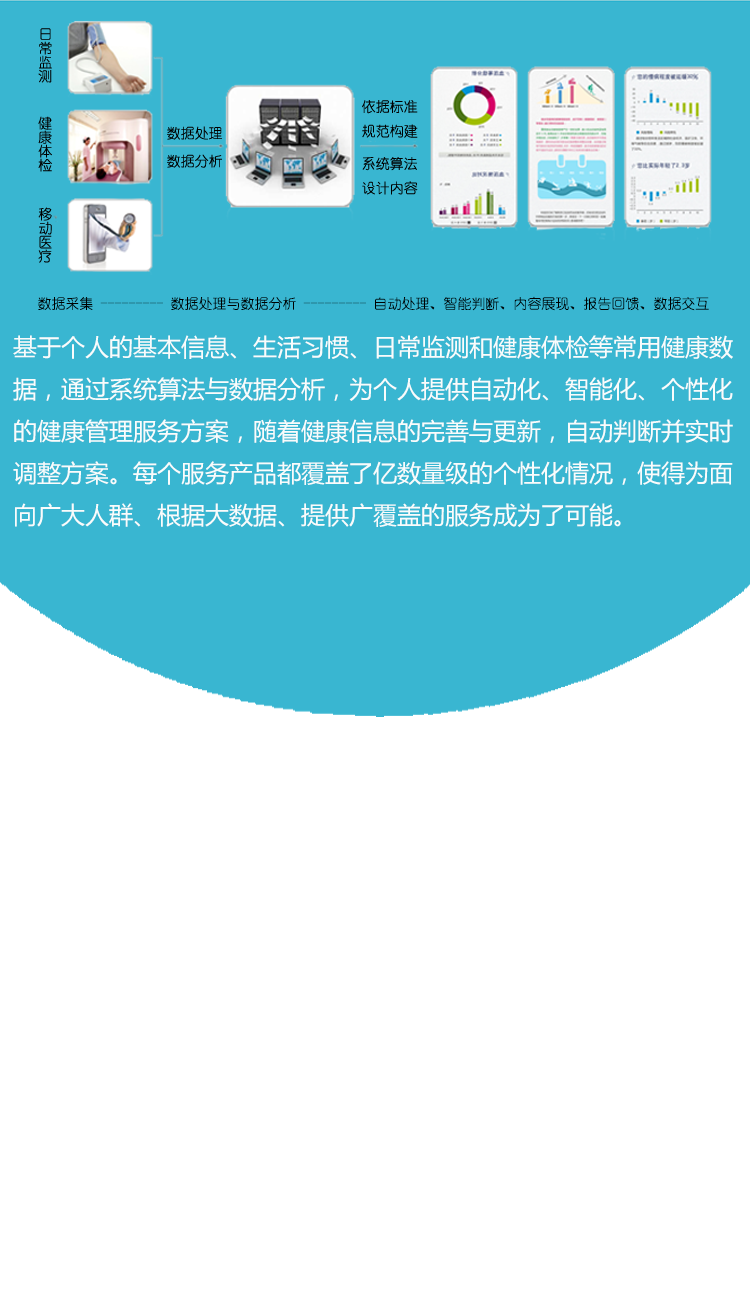
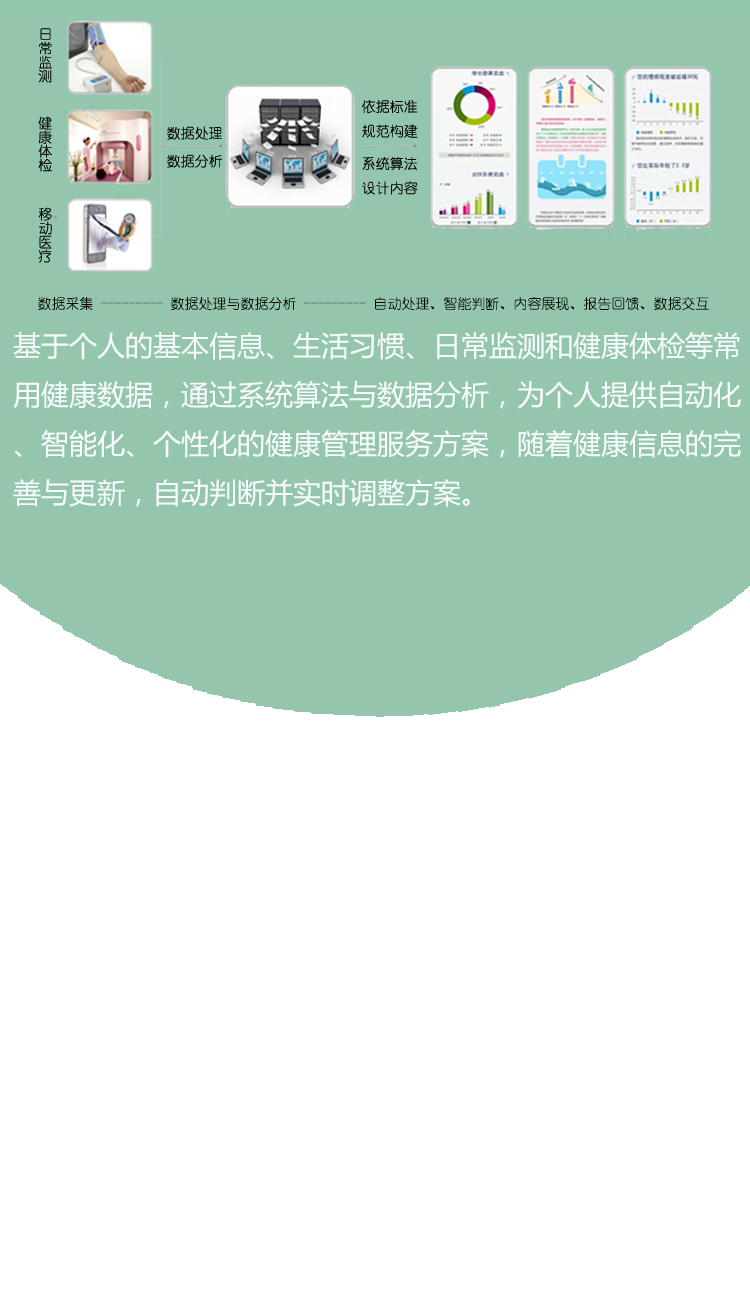
御易健样式调整

diff --git a/app/assets/stylesheets/wechat/base.scss b/app/assets/stylesheets/wechat/base.scss
@@ -64,3 +64,78 @@ ul {
     text-align:left;
     font-size:14px
 }
+
+
+
+
+
+//御易健样式整理
+
+//input样式
+.yyj_input {
+    -webkit-appearance: none;
+    height: 30px;
+    width: 80%;
+    background-color: #fff;
+    border: 1px solid #94c6ad;
+    border-radius: 5px;
+    line-height: 20px;
+    padding: 5px 10px;
+}
+
+//长条形提交按钮
+.yyj_submit {
+    -webkit-appearance: none;
+    display: block;
+    margin-top: 20px;
+    border:0;
+    border-radius: 5px;
+    color: #fff;
+    width: 90%;
+    height: 40px;
+    background:#94c6ad;    
+}
+
+
+//统一实心填充按钮或块背景颜色
+.yyj_btn {
+    background: #94c6ad;
+}
+
+
+//统一带边框块基本样式
+.yyj_div {
+    width: 100%;
+    text-align: center;
+    display: block;
+    color: #94c6ad;
+    border:1px solid #94c6ad;
+    margin-bottom: 10px;     
+}
+
+
+//统一字号
+.yyj_text {
+    font-size: 16px;
+}
+
+//统一标题样式
+.yyj_title {
+    font-weight: normal;
+    color:#94c6ad;
+    text-align: center; 
+    font-size: 20px!important;
+}
+
+//统一iOS自带样式提交小按钮
+.yyj_commit {
+    -webkit-appearance: none;
+    background: #94c6ad!important;
+    border:0;
+}
+
+
+//统一深绿色字颜色
+.yyj_color {
+    color: #436152;
+}

diff --git a/app/assets/stylesheets/user/info.scss b/app/assets/stylesheets/user/info.scss
@@ -294,3 +294,6 @@ a{
   background-image: image-url("white.png");
   background-size: 100% 110%;  
 }
+
+
+
